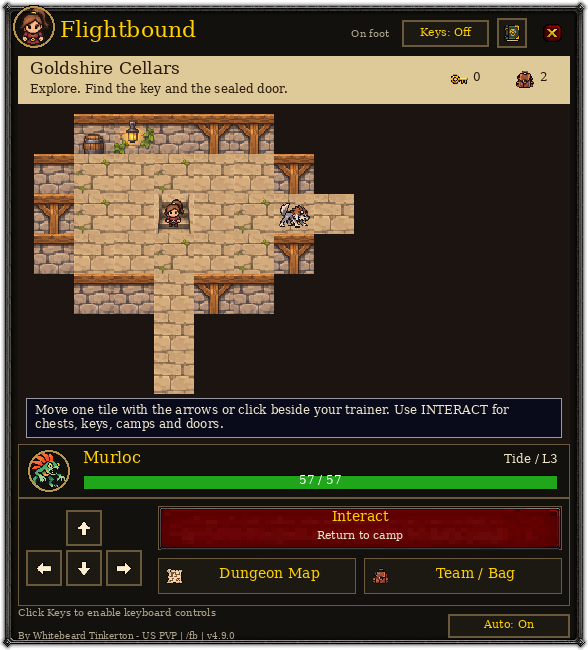
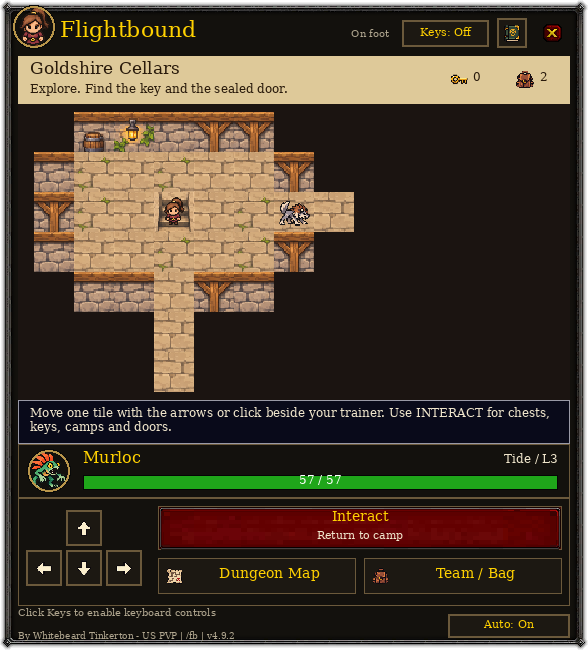
Place exploration messages below the map viewport

Changed region(s): [[0.0306, 0.1538, 0.9796, 0.6769]]

diff --git a/Flightbound/README.md b/Flightbound/README.md
@@ -1,4 +1,4 @@
-# Flightbound 4.9.1 — Adventure Console
+# Flightbound 4.9.2 — Adventure Console
 
 A small, movable Game Boy-style creature RPG inside WoW Forever. The trainer
 now walks an actual dungeon map. The room-card selection flow is replaced by
@@ -11,9 +11,12 @@ The result must contain `Interface/AddOns/Flightbound/Flightbound.toc`, without
 an extra nested folder. For a first install, restart WoW and enable Flightbound
 in the character screen's AddOns list. To update, replace the existing addon
 folder, then use `/reload` when convenient. Open with `/fb`.
-The footer should read **v4.9.1**. Compatible with WoW Forever (interface 16001),
+The footer should read **v4.9.2**. Compatible with WoW Forever (interface 16001),
 Windows and Linux through Wine/Proton. No external program is needed.
 `/flightbound` and `/fbound` still work; `/fb` also accepts their subcommands.
+
+**4.9.2 map layout:** moves exploration messages into their own strip below the
+map. They no longer cover terrain or the bottom row of tiles.
 
 **4.9.1 startup fix:** handles blank icon and button labels returning nil from
 WoW, which could stop `/fb` and `/flightbound` from opening the console. No
@@ -45,7 +48,7 @@ Decline and a countdown. One alert respects the Sound setting. No save reset.
 
 ## Friendly duels
 
-Both players need **Flightbound 4.9.1**, must be online in WoW Forever,
+Both players need **Flightbound 4.9.2**, must be online in WoW Forever,
 and must appear in each other's friends list or share a guild. Battle.net
 friends count when their Forever character is available; previously
 seen characters remain recognizable while that Battle.net friendship exists.
@@ -58,7 +61,7 @@ seen characters remain recognizable while that Battle.net friendship exists.
 3. Select **Duel** beside a ready contact. Your friend clicks **Accept Duel**
    in the invitation popup. **Choose Team** opens the team picker if needed;
    save a matching team size, then accept. `/fb friends` also has Accept Duel.
-   Invitations expire after a minute. Both players must update to 4.9.1.
+   Invitations expire after a minute. Both players must update to 4.9.2.
 4. Take alternating turns using Strike, named Special, Defense, Swap and Focus.
    With keys enabled: **1** Strike, **2** Special, **3** Defense, **4** Swap,
    **5** Duel Menu, **6** Focus. Choose a replacement companion with the mouse or **1–3**; **0** goes back.
@@ -144,8 +147,9 @@ Linux (Wine/Proton); no external runtime is required.
 
 The Adventure Console uses a 588×650 movable window with classic WoW framing,
 red primary actions, quiet secondary controls, parchment headings and portrait
-health bars. The 552×340 map is joined directly to the companion strip and
-movement/action dock. Numbered battle actions form two rows: combat moves above,
+health bars. The map has its own 552×296 viewport with a separate 44-unit message strip
+below it, followed by the companion strip and movement/action dock. Camera
+bounds keep every displayed tile clear of the message at all zoom levels. Numbered battle actions form two rows: combat moves above,
 items/swap, taming and Focus below. Headings and actions use title case;
 explanations use sentence case. HP and XP remain abbreviated.
 

diff --git a/CHANGELOG.md b/CHANGELOG.md
@@ -1,5 +1,11 @@
 # Release notes
 
+## 4.9.2
+
+- Move exploration messages into a separate strip below the map, above the companion bar. Keep the compact window size.
+- Fit the map camera to its own viewport so bottom-row tiles stay fully visible at every zoom.
+- Includes the 4.9.1 window-opening fix. No save or gameplay changes.
+
 ## 4.9.1
 
 - Fix a window-opening error from blank icon/button labels returning nil from WoW FontString:GetText. Both `/fb` and `/flightbound` can build the console again.
